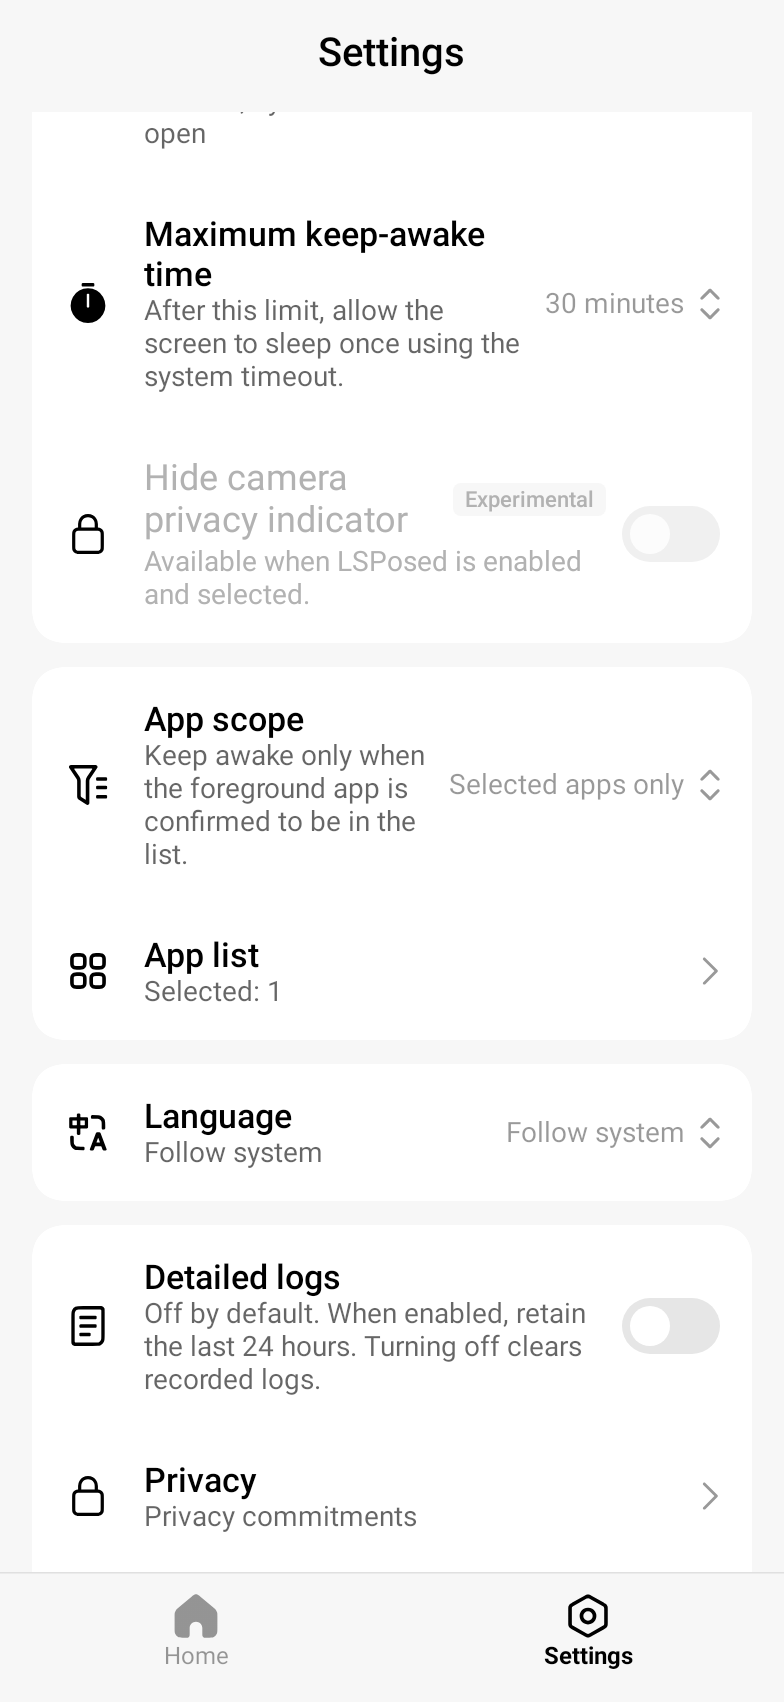
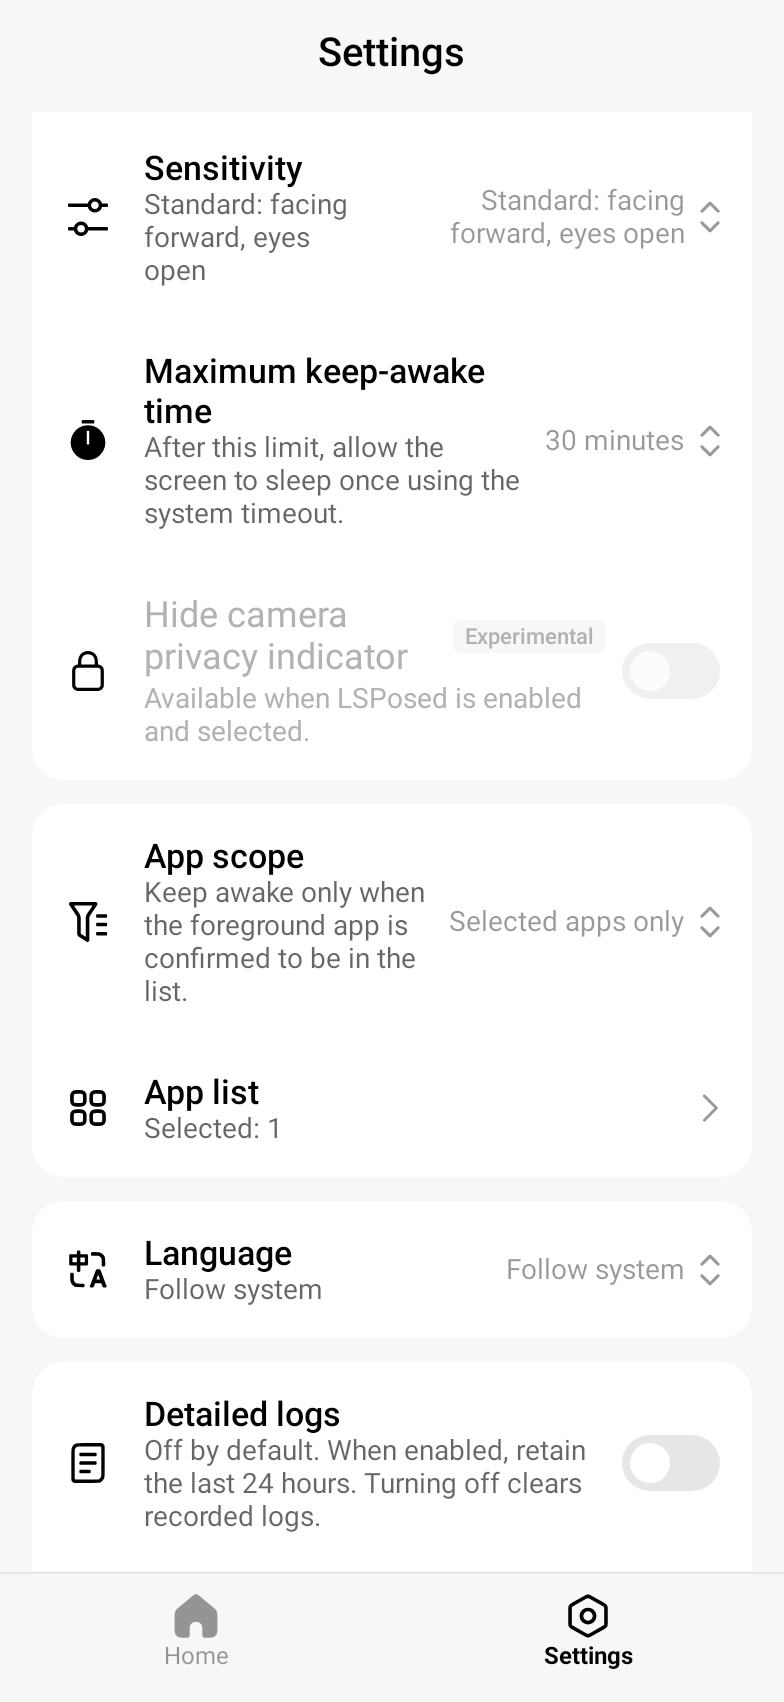
feat(shared): ✨ 新增首页问题反馈入口并移除设置页重复的隐私入口
- 首页隐私卡片下方新增「问题反馈」，与关于页同一入口，打开仓库 issues 页面；首页因此接收 PlatformActions。
- 设置页不再单列「隐私」，隐私页从首页隐私卡片与关于页进入。
- 新增首页反馈入口位置与打开地址、设置页不再列出隐私两个界面用例；重录 settings_bottom_light_en 截图基线并逐张核对。
- 同步 UI 架构与测试规范中的入口描述。

diff --git a/apps/app/shared/src/androidHostTest/kotlin/cn/rainafter/app/gazekeep/ui/HomeUiTest.kt b/apps/app/shared/src/androidHostTest/kotlin/cn/rainafter/app/gazekeep/ui/HomeUiTest.kt
@@ -1,7 +1,9 @@
 package cn.rainafter.app.gazekeep.ui
 
 import androidx.activity.ComponentActivity
+import androidx.compose.ui.test.getUnclippedBoundsInRoot
 import androidx.compose.ui.test.junit4.createAndroidComposeRule
+import androidx.compose.ui.test.onNodeWithText
 import cn.rainafter.app.gazekeep.core.model.Attention
 import cn.rainafter.app.gazekeep.core.model.BackendId
 import cn.rainafter.app.gazekeep.ui.contract.UiNotice
@@ -9,7 +11,9 @@ import cn.rainafter.app.gazekeep.ui.testing.launchApp
 import cn.rainafter.app.gazekeep.ui.testing.readyState
 import cn.rainafter.app.gazekeep.ui.testing.text
 import gazekeep.shared.generated.resources.Res
+import gazekeep.shared.generated.resources.about_feedback
 import gazekeep.shared.generated.resources.home_decision_looking
+import gazekeep.shared.generated.resources.home_privacy_card_title
 import gazekeep.shared.generated.resources.home_status_decision
 import gazekeep.shared.generated.resources.home_status_stopped
 import gazekeep.shared.generated.resources.home_status_waiting
@@ -26,6 +30,7 @@ import org.robolectric.annotation.Config
 import org.robolectric.annotation.GraphicsMode
 import kotlin.test.Test
 import kotlin.test.assertEquals
+import kotlin.test.assertTrue
 
 @RunWith(RobolectricTestRunner::class)
 @GraphicsMode(GraphicsMode.Mode.NATIVE)
@@ -72,6 +77,17 @@ class HomeUiTest {
     val app = rule.launchApp(running.copy(config = running.config.copy(enabled = true)))
     app.assertShown(text(Res.string.home_status_waiting))
     app.assertNotShown(text(Res.string.home_status_working))
+  }
+
+  @Test
+  fun feedbackEntryBelowPrivacyOpensIssuesLikeAboutPage() {
+    val app = rule.launchApp(readyState())
+    // 首页反馈入口紧跟隐私卡片，打开的地址与关于页的「问题反馈」相同。
+    val privacy = rule.onNodeWithText(text(Res.string.home_privacy_card_title)).getUnclippedBoundsInRoot()
+    val feedback = rule.onNodeWithText(text(Res.string.about_feedback)).getUnclippedBoundsInRoot()
+    assertTrue(feedback.top > privacy.bottom)
+    app.click(text(Res.string.about_feedback))
+    assertEquals(listOf("openUrl:https://github.com/IceTeacher/GazeKeep/issues"), app.actions.calls)
   }
 
   @Test

diff --git a/apps/app/shared/src/commonMain/kotlin/cn/rainafter/app/gazekeep/ui/screens/HomeScreen.kt b/apps/app/shared/src/commonMain/kotlin/cn/rainafter/app/gazekeep/ui/screens/HomeScreen.kt
@@ -34,13 +34,16 @@ import cn.rainafter.app.gazekeep.ui.components.NoticeCard
 import cn.rainafter.app.gazekeep.ui.components.StatusChip
 import cn.rainafter.app.gazekeep.ui.contract.ControllerState
 import cn.rainafter.app.gazekeep.ui.contract.GazeKeepController
+import cn.rainafter.app.gazekeep.ui.contract.PlatformActions
 import cn.rainafter.app.gazekeep.ui.contract.UiNotice
 import cn.rainafter.app.gazekeep.ui.navigation.SettingsScreen
 import cn.rainafter.app.gazekeep.ui.showcase.ShowcaseKeys
 import cn.rainafter.app.gazekeep.ui.showcase.ShowcaseScrollTarget
+import cn.rainafter.app.gazekeep.ui.text.ProjectLinks
 import cn.rainafter.app.gazekeep.ui.text.backendLabel
 import cn.rainafter.app.gazekeep.ui.text.backendName
 import gazekeep.shared.generated.resources.Res
+import gazekeep.shared.generated.resources.about_feedback
 import gazekeep.shared.generated.resources.app_title
 import gazekeep.shared.generated.resources.home_chip_camera
 import gazekeep.shared.generated.resources.home_chip_granted
@@ -82,6 +85,7 @@ import top.yukonga.miuix.kmp.basic.Icon
 import top.yukonga.miuix.kmp.basic.Text
 import top.yukonga.miuix.kmp.icon.MiuixIcons
 import top.yukonga.miuix.kmp.icon.extended.Info
+import top.yukonga.miuix.kmp.preference.ArrowPreference
 import top.yukonga.miuix.kmp.theme.MiuixTheme
 import top.yukonga.miuix.kmp.utils.PressFeedbackType
 
@@ -92,6 +96,7 @@ internal fun HomeScreen(
   state: ControllerState,
   scope: CoroutineScope,
   controller: GazeKeepController,
+  actions: PlatformActions,
   onNavigate: (SettingsScreen) -> Unit,
   bottomBar: @Composable () -> Unit = {},
   statusSubtitleOverride: String? = null,
@@ -165,6 +170,13 @@ internal fun HomeScreen(
               )
             },
             onClick = { onNavigate(SettingsScreen.Privacy) },
+          )
+        }
+
+        Card(modifier = Modifier.fillMaxWidth()) {
+          ArrowPreference(
+            title = stringResource(Res.string.about_feedback),
+            onClick = { actions.openUrl(ProjectLinks.ISSUES) },
           )
         }
 

diff --git a/apps/app/shared/src/commonMain/kotlin/cn/rainafter/app/gazekeep/ui/screens/SettingsScreen.kt b/apps/app/shared/src/commonMain/kotlin/cn/rainafter/app/gazekeep/ui/screens/SettingsScreen.kt
@@ -84,8 +84,6 @@ import gazekeep.shared.generated.resources.settings_max_hold
 import gazekeep.shared.generated.resources.settings_max_hold_summary
 import gazekeep.shared.generated.resources.settings_need_camera
 import gazekeep.shared.generated.resources.settings_need_self_test
-import gazekeep.shared.generated.resources.settings_privacy
-import gazekeep.shared.generated.resources.settings_privacy_commitments
 import gazekeep.shared.generated.resources.settings_ready
 import gazekeep.shared.generated.resources.settings_self_test
 import gazekeep.shared.generated.resources.settings_sensitivity
@@ -462,12 +460,6 @@ internal fun SettingsTabScreen(
             onClick = { onNavigate(SettingsScreen.Logs) },
           )
         }
-        ArrowPreference(
-          title = stringResource(Res.string.settings_privacy),
-          summary = stringResource(Res.string.settings_privacy_commitments),
-          startAction = { StartSettingIcon(MiuixIcons.Lock) },
-          onClick = { onNavigate(SettingsScreen.Privacy) },
-        )
         ArrowPreference(
           title = stringResource(Res.string.settings_about),
           summary = stringResource(Res.string.settings_about_summary),

diff --git a/apps/app/shared/src/androidHostTest/kotlin/cn/rainafter/app/gazekeep/ui/SettingsUiTest.kt b/apps/app/shared/src/androidHostTest/kotlin/cn/rainafter/app/gazekeep/ui/SettingsUiTest.kt
@@ -40,6 +40,7 @@ import gazekeep.shared.generated.resources.settings_language_english
 import gazekeep.shared.generated.resources.settings_language_system
 import gazekeep.shared.generated.resources.settings_max_hold
 import gazekeep.shared.generated.resources.settings_need_self_test
+import gazekeep.shared.generated.resources.settings_privacy
 import gazekeep.shared.generated.resources.settings_self_test
 import org.junit.Rule
 import org.junit.runner.RunWith
@@ -132,6 +133,15 @@ class SettingsUiTest {
     app.openTab(text(Res.string.nav_settings))
     app.assertShown(text(Res.string.settings_self_test))
     app.assertShown(text(Res.string.settings_need_self_test))
+  }
+
+  @Test
+  fun settingsTabNoLongerListsPrivacy() {
+    val app = rule.launchApp(readyState())
+    app.openTab(text(Res.string.nav_settings))
+    // 隐私页只从首页隐私卡片与关于页进入。
+    app.assertShown(text(Res.string.settings_about))
+    app.assertNotShown(text(Res.string.settings_privacy))
   }
 
   @Test

diff --git a/apps/app/shared/src/commonMain/kotlin/cn/rainafter/app/gazekeep/ui/navigation/SettingsNavigation.kt b/apps/app/shared/src/commonMain/kotlin/cn/rainafter/app/gazekeep/ui/navigation/SettingsNavigation.kt
@@ -264,6 +264,7 @@ internal fun SettingsNavHost(
         state = state,
         scope = scope,
         controller = controller,
+        actions = actions,
         onNavigate = backStack::navigateTo,
         bottomBar = { BottomNavBar(selectedTab = SettingsScreen.Home) },
         statusSubtitleOverride = homeStatusOverride,

diff --git a/docs/architecture/ui.md b/docs/architecture/ui.md
@@ -4,20 +4,20 @@ shared 的 commonMain 使用 miuix，只依赖 core 和平台契约。App 组装
 
 ## 页面定位
 
-| 页面            | 职责                                                      |
-| --------------- | --------------------------------------------------------- |
-| Home            | 总开关、运行状态、最近检测、系统环境摘要和隐私入口        |
-| Settings        | 检测参数、保护上限、生效范围、语言、日志和工具入口        |
-| Backend         | 后端选择、就绪状态与设置引导                              |
-| Apps            | 启动器应用搜索、当前范围对应的白名单或黑名单勾选          |
-| Logs            | 搜索、级别筛选、卡片/原始视图、分享、导出、清空与滚动定位 |
-| Privacy         | 三条隐私文案，以及默认熄屏、相机避让、暗光暂停说明        |
-| SelfTest        | 正视与转头两步验证；唯一允许相机预览的页面                |
-| About / Notices | 项目信息、核心依赖与完整第三方许可                        |
+| 页面            | 职责                                                         |
+| --------------- | ------------------------------------------------------------ |
+| Home            | 总开关、运行状态、最近检测、系统环境摘要、隐私与问题反馈入口 |
+| Settings        | 检测参数、保护上限、生效范围、语言、日志和工具入口           |
+| Backend         | 后端选择、就绪状态与设置引导                                 |
+| Apps            | 启动器应用搜索、当前范围对应的白名单或黑名单勾选             |
+| Logs            | 搜索、级别筛选、卡片/原始视图、分享、导出、清空与滚动定位    |
+| Privacy         | 三条隐私文案，以及默认熄屏、相机避让、暗光暂停说明           |
+| SelfTest        | 正视与转头两步验证；唯一允许相机预览的页面                   |
+| About / Notices | 项目信息、核心依赖与完整第三方许可                           |
 
 Home 和 Settings 为底栏标签；二级页面隐藏底栏，返回恢复上一页，旋转保留导航与搜索状态。二级转场使用 Compose 的 FastOutSlowInEasing，时长 450 ms；一级标签保持 220 ms 淡入淡出，不维护自制阻尼公式。
 
-主页最近检测不依赖详细日志开关，服务重配时保留。主页只在服务运行且引擎有实际后端时显示工作中；服务存活但引擎因后端掉线或撤权处于 Disabled 时显示等待，相机未授权时标题与提示说明相机原因。设置数值范围及持久化见[运行架构](android-runtime.md)，不在 UI 文档重复维护。
+隐私页从主页隐私卡片与关于页进入，设置页不单列；主页隐私卡片下方的「问题反馈」与关于页同一入口，打开仓库 issues 页面。主页最近检测不依赖详细日志开关，服务重配时保留。主页只在服务运行且引擎有实际后端时显示工作中；服务存活但引擎因后端掉线或撤权处于 Disabled 时显示等待，相机未授权时标题与提示说明相机原因。设置数值范围及持久化见[运行架构](android-runtime.md)，不在 UI 文档重复维护。
 
 生效范围使用下拉选择；全部应用时隐藏应用列表入口，其余两种范围显示对应名单的数量。应用页标题、勾选与已选数量只作用于当前范围的名单，切换范围不改写另一份名单。
 

diff --git a/.agents/docs-index.md b/.agents/docs-index.md
@@ -31,7 +31,7 @@
 | `../docs/architecture/engine.md`                 | 决策架构 | 修改 reducer、时序、前台来源、退避、保亮上限或释放语义时                                                                                                                                                                                                                                           | 持续维护 | 2026-11-05 |
 | `../docs/architecture/capture-classification.md` | 检测架构 | 修改 CameraX、传感器门控、ML Kit、阈值或投票时                                                                                                                                                                                                                                                     | 持续维护 | 2026-11-07 |
 | `../docs/architecture/web/website.md`            | 官网架构 | 修改 Astro 双语官网、组件与样式拆分、颜色令牌与主题切换、图标、入场与滚动动效、连续叙事、立体设备、KMP 展示与内屏交互（含指针转发的浏览器兼容、内屏拖动滚动与各区段自动演示）、视觉联动、桌面与移动端滚动吸附、滚动性能、首屏加载、分享元数据、站点统计、Cloudflare Pages 托管部署或官网 CI 发布时 | 持续维护 | 2026-10-31 |
-| `../docs/architecture/ui.md`                     | UI 架构  | 修改页面、导航、日志、自检、平台契约、应用列表（含系统应用显示与批量操作）、应用内语言、官网演示接入点或界面截图基线时                                                                                                                                                                             | 持续维护 | 2026-10-31 |
+| `../docs/architecture/ui.md`                     | UI 架构  | 修改页面、导航、日志、自检、平台契约、应用列表（含系统应用显示与批量操作）、应用内语言、官网演示接入点或界面截图基线时                                                                                                                                                                             | 持续维护 | 2026-11-07 |
 | `../docs/architecture/backends/a11y.md`          | 后端架构 | 修改无障碍事件、前台来源、Hold 或空闲时钟时                                                                                                                                                                                                                                                        | 持续维护 | 2026-11-01 |
 | `../docs/architecture/backends/shizuku.md`       | 后端架构 | 修改 shell Binder、独立前台来源、同步超时恢复、临时超时退路或开机恢复时                                                                                                                                                                                                                            | 持续维护 | 2026-11-07 |
 | `../docs/architecture/backends/lsposed.md`       | 后端架构 | 修改系统候选、入口兼容、前台来源、seq、指示器、隐藏 API 豁免或打包时                                                                                                                                                                                                                               | 持续维护 | 2026-10-27 |
